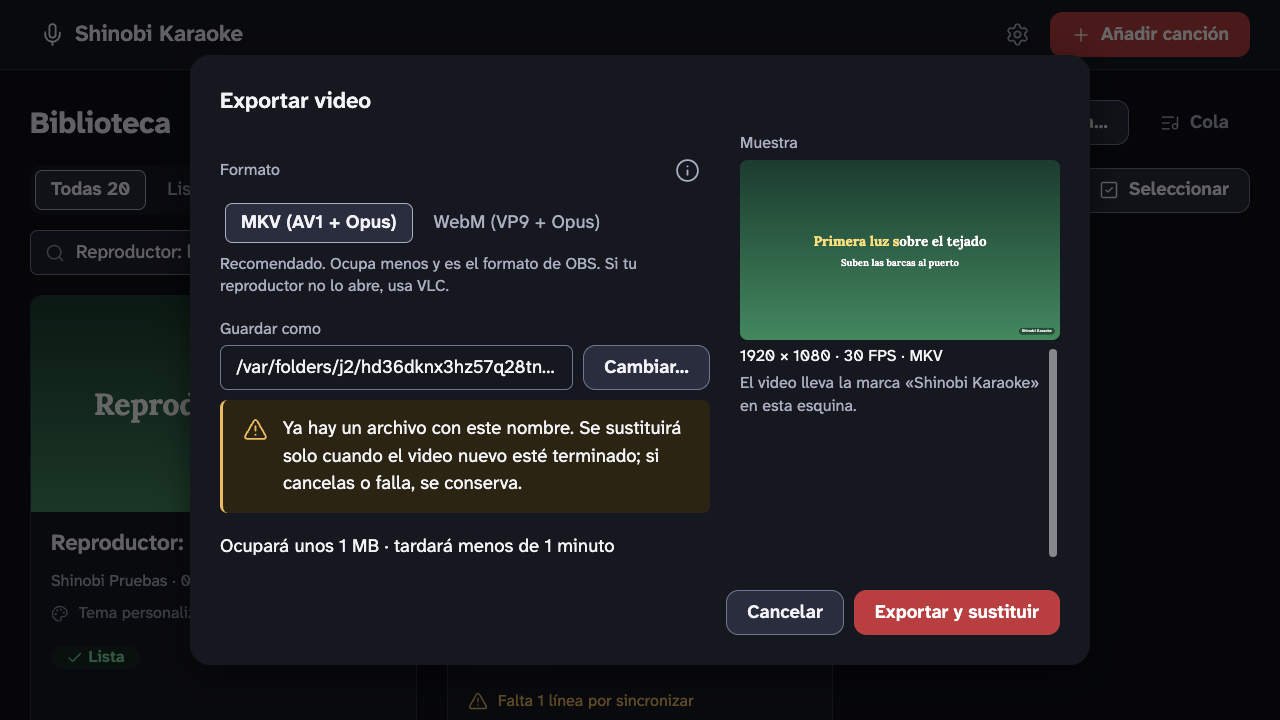
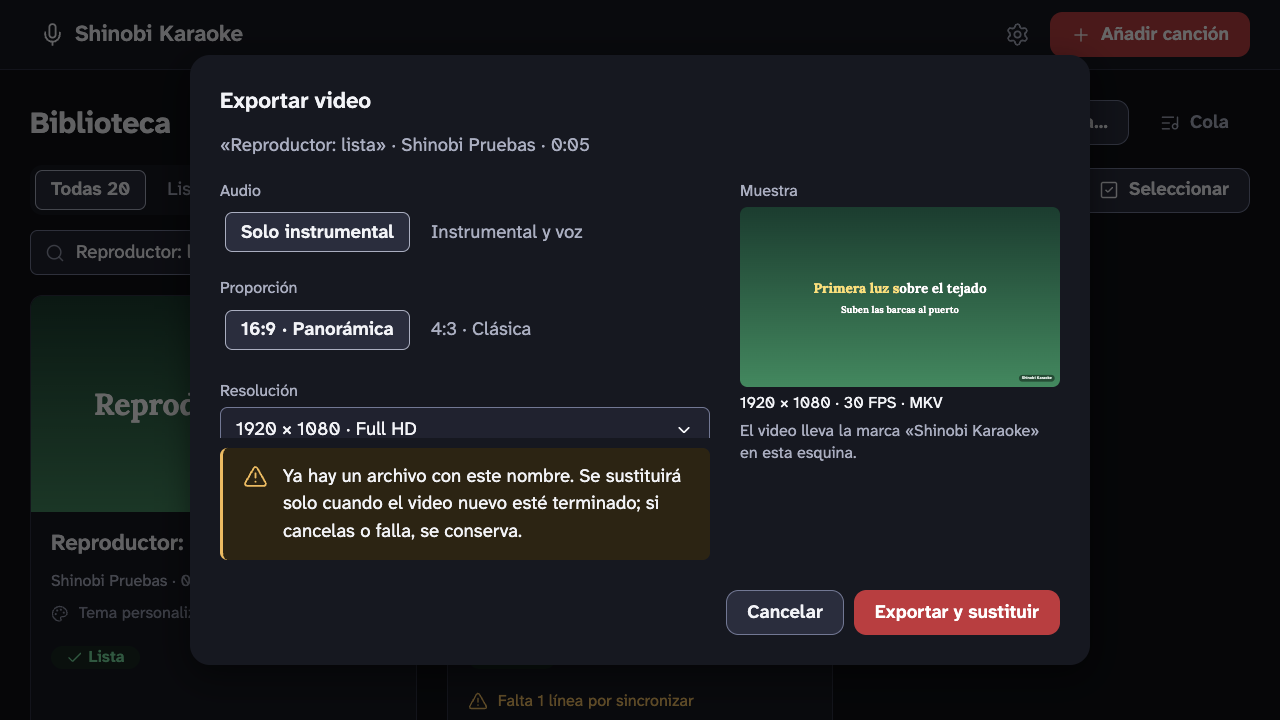
Diálogo de exportación: una sola zona de scroll, avisos visibles y ayuda de formato sin recortar
Claude-Session: https://claude.ai/code/session_01CwzfmN7hegiWfrCMZTWuy1

Changed region(s): [[0.1562, 0.1833, 0.8438, 0.7639]]

diff --git a/ux/revision-fase-6/README.md b/ux/revision-fase-6/README.md
@@ -41,12 +41,18 @@ Nombre: `exportacion-{ancho}x{alto}-{escala}-{estado}.png`, a 1280 × 800 al 100
   diseñador los quiere en imagen, hay que añadir un doble en desarrollo.
 - `bloqueo-sesion` no existe: V23 se retiró; exportar y la sesión conviven (queda `nota-sesion`).
 
-## Observaciones al tomarlas
+## Observaciones al tomarlas (corregidas)
 
-- **Popover de ayuda recortado** (`ayuda-formato`, sobre todo al 125 %): el popover se dibuja dentro de
-  la zona con scroll del diálogo y queda cortado por el borde izquierdo («ué formato elegir») y por
-  abajo; para leerlo entero hay que hacer scroll.
-- **Barra de scroll en la columna de la muestra**: a 720 de alto el formulario y la columna derecha
-  hacen scroll por separado (se ve en `nota-sesion` y `ayuda-formato`).
-- La nota de sesión y el aviso de sustitución quedan bajo el pliegue a 1280 × 720 al 125 %: las
-  capturas los desplazan a la vista; el usuario los ve solo tras bajar el scroll.
+Las tres se corrigieron después de la primera tanda y las capturas están regeneradas:
+
+- **Popover de ayuda recortado**: ahora se despliega en línea bajo la etiqueta «Formato» (ocupa el ancho
+  de la columna) y se trae a la vista al abrirlo. A 1024 × 576 es más alto que la zona visible y se
+  recorre con el scroll del cuerpo, sin recortes laterales.
+- **Doble barra de scroll**: el diálogo tiene una sola zona con scroll (el cuerpo); la barra no se
+  repite junto a la columna de la muestra.
+- **Avisos bajo el pliegue**: «ya existe y se sustituirá», los errores y las notas (sesión, etc.) van
+  pegados al borde inferior de la zona con scroll, encima de los botones, y se ven sin desplazarse
+  (`nota-sesion` y `archivo-existe`). Con avisos largos a 1024 × 576 queda poco espacio para el resto
+  de campos, que se recorren con el scroll.
+- 1280 × 720 al 125 % equivale a una ventana de 1024 × 576 CSS, el mínimo de la app: no hace falta
+  una captura aparte.

diff --git a/tareas/0238-dialogo-de-exportacion-formulario.md b/tareas/0238-dialogo-de-exportacion-formulario.md
@@ -46,6 +46,8 @@ El diálogo «Exportar video» en su estado de formulario, con formato, audio, p
 - La nota «Lista incompleta» solo se muestra en canciones Lista (según la tabla de la spec).
 - Tras una validación fallida no se vuelve a pedir el destino (se asume que `iniciar` no consume el `destinoId` si falla). Revisar con 0237.
 
+- Corrección tras las capturas de la fase 6: una sola zona de scroll (`.cuerpo`); el popover ⓘ pasa de `position: absolute` a bloque en línea bajo la etiqueta «Formato» (con `scrollIntoView` al abrirlo); el aviso «ya existe», el error general y las notas van en `.notas`, `position: sticky; bottom: 0` dentro de la zona con scroll, así quedan visibles encima de los botones (el aviso «ya existe» deja de ir justo bajo «Guardar como»).
+
 ### Cómo probarlo
 `cd app && npx vitest run --project renderer src/renderer/src/exportacion`. La apertura real del diálogo llega con 0240 (puntos de entrada) y la integración con main con 0237.
 
